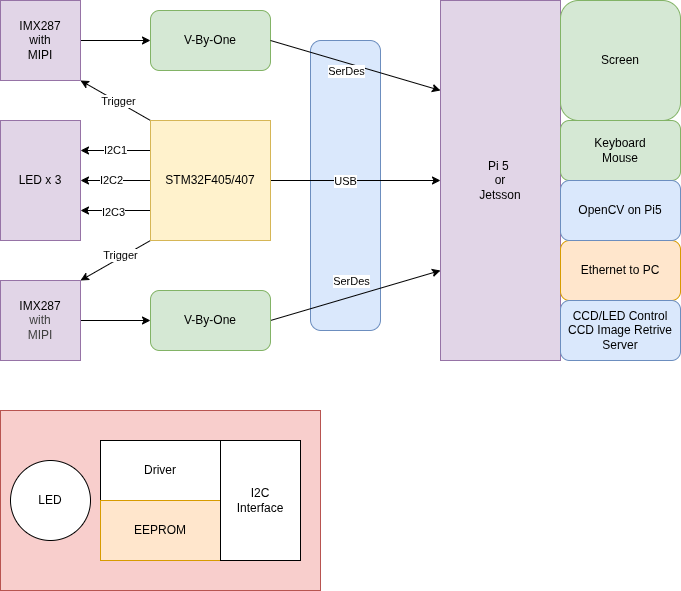
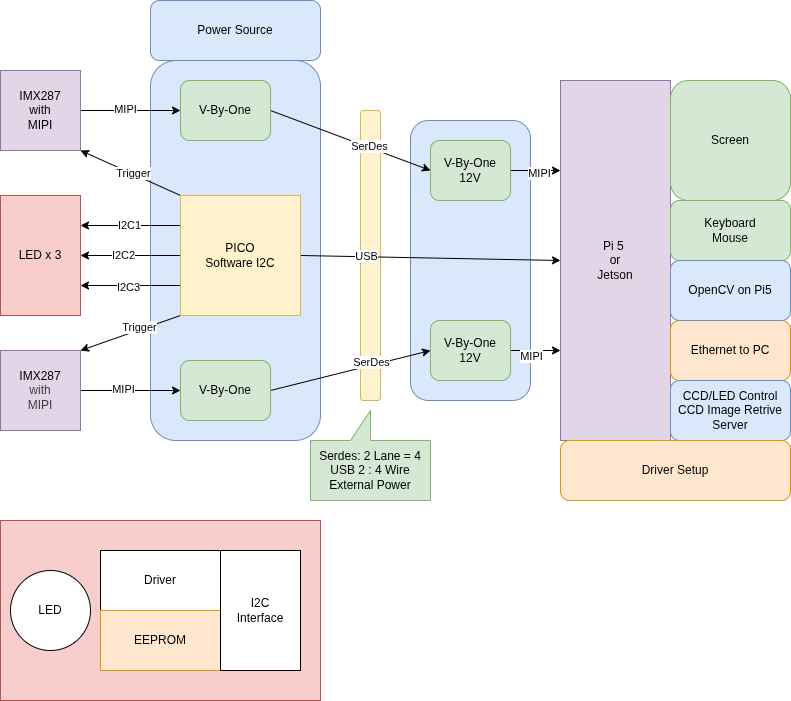
Update 2026-07-21A

diff --git a/docs/Y2026/Y2026-07.md b/docs/Y2026/Y2026-07.md
@@ -1,5 +1,58 @@
 # 2026-07
 
+## 2026-07-21 Tuesday 🌐 🎬 💾 📚 📑 🔬
+
+### MIPI FPC Pin Count & Specifications Reference Table
+
+| Pin Count | Typical Pitch | Max Supported Lanes | Primary Applications (CSI / DSI) | Core Features & Extra Signals Breakdown |
+| :--- | :--- | :--- | :--- | :--- |
+| **15-Pin** | 1.0 mm | 2-Lane | Legacy Cameras / Displays (CSI/DSI) | Legacy standard for Raspberry Pi 1 to 4. Contains basic lines: single 3.3V power rail, 1x I2C bus, and 1-2 control IOs. |
+| **22-Pin** | 0.5 mm | 4-Lane | High-Density Cameras / Displays (CSI/DSI) | Standard for Raspberry Pi 5, Pi Zero, and Jetson carrier boards. Adds 2 more data lanes and extra GND pins for crosstalk shielding. |
+| **24-Pin** | 0.5 mm / 0.3 mm | 4-Lane | Industrial Cameras / IoT EVBs (CSI) | Widely used in Google Coral Dev Boards and industrial vision systems. Includes full 4-Lane MIPI with hardware trigger and flash sync pins. |
+| **30-Pin** | 0.5 mm | 4-Lane | Medical & Industrial Modules (CSI/DSI) | Designed for sensors requiring multiple clean analog power rails (e.g., 2.8V AV_DD, 1.2V Core, 1.8V IO_DD) to reduce noise. |
+| **31-Pin** | 0.3 mm | 4-Lane | Rockchip EVBs / Custom Modules (CSI) | High-density interface commonly seen on Rockchip platforms (e.g., Radxa ROCK series) to cram full I/O features into ultra-tight spaces. |
+| **39 / 40-Pin**| 0.5 mm | 4-Lane | Small-to-Medium Touchscreens (DSI) | **The absolute industry standard for embedded displays.** Dedicates 10 pins to MIPI, while the rest integrate Touch Panel (TP) I2C and high-voltage Backlight (LED+/LED-). |
+| **50 / 60-Pin**| 0.5 mm | 8-Lane (Dual-MIPI) | 2K/4K Displays / VR Headsets (DSI) | Uses Dual-Channel MIPI DSI to achieve massive bandwidth for high-resolution panels. Packs multiple backlight strings and touch interfaces. |
+| **Custom B2B** | 0.35 mm | 2-Lane / 4-Lane | Smartphones / Tablets Internal Layouts | Utilizes Board-to-Board micro-connectors rather than insertion-style FPCs. Pin counts (e.g., 34, 42, 54) are entirely customized by OEMs to fit the motherboard routing. |
+
+---
+
+#### 🛠 Hardware Implementation Checklist
+
+*   **Impedance Control:** Ensure all MIPI High-Speed differential pairs (Clock and Data) are routed with a target differential impedance of **100 $\Omega$ (±10%)** across the FPC and PCB.
+*   **Intra-pair Skew:** Keep the length trace matching between the Positive (P) and Negative (N) signals within **0.15 mm (approx. 5-10 mils)** to prevent phase shifts.
+*   **IO Voltage Warning:** Verify control bus voltages (I2C/CCI). Legacy 15-pin setups occasionally mixed 3.3V, but modern 22-pin to 40-pin high-density systems almost exclusively use **1.8V** signaling. Connecting a 3.3V master to a 1.8V sensor will fry the module.
+
+---
+
+### PICO SDK V2.3.0 Update
+
+🎬[This 'Minor' SDK Update Unlocks Hidden RAM on Your RP2350](https://www.youtube.com/watch?v=F1kM4Ts2qJ8)
+
+- 🔧 XIP Cache → Extra SRAM — Claw back 8KB by shrinking the XIP cache. Game-changer for memory-constrained RP2350 builds.
+- 💾 PS RAM goes standard — Proper malloc/free for PS RAM with graceful fallback to main heap. No more hacking board files.
+- 😴 Low Power library — Sleep and Hibernate modes that actually wake up. GPIO or internal clock triggers, production-ready for RP2040 & RP2350.
+- 📋 11 new boards — Including DebugPro, the Raspberry Pi 500 RP2040 keyboard, and Waveshare RP2350 Pi Zero
+- 🔄 USB Reset library — Cleaner, dedicated separation from the main stack.
+- 🔵 BT stack 1.8.2 — Bluetooth upgrade. New project incoming? 👀
+- 🔒 Security fix — Embed TLS patched. Don't skip this one.
+
+---
+
+### VEYE Camera IMX287 and V-By-One 
+
+📑[V-by-One-HS KIT appnotes 4 rpi](https://wiki.veye.cc/index.php?title=V-by-One-HS_KIT_appnotes_4_rpi)
+
+📑[Mv series camera appnotes 4 rpi](https://wiki.veye.cc/index.php?title=Mv_series_camera_appnotes_4_rpi)
+
+![](../images/2026/20260721_121004.jpg)
+
+Camera -> V-By-One (30Pin include 5V)
+
+V-By-One -> Pi (15Pin for Pi 4, 22Pin for Pi 5)
+
+---
+
 ## 2026-07-20 Monday 🌐 🎬 💾 📚 📑 🔬
 
 ### The Black Swan

diff --git a/docs/Python_Resources.md b/docs/Python_Resources.md
@@ -388,6 +388,101 @@ sys.path.append(os.path.abspath(parent_dir))
         writer.write(fp)
 ```
 
+### Python Functional Pointer 
+
+```py
+PAYMENT_HANDLERS = {}
+
+def register(payment_type):
+    def decorator(func):
+        PAYMENT_HANDLERS[payment_type] = func
+        return func
+    return decorator
+
+@register("credit_card")
+def charge_credit_card(amount):
+    return f"Charged ${amount} to credit card"
+
+@register("paypal")
+def charge_paypal(amount):
+    return f"Charged ${amount} via PayPal"
+
+@register("crypto")
+def charge_crypto(amount):
+    return f"Charged ${amount} in crypto"
+
+def process_payment(payment_type, amount):
+    handler = PAYMENT_HANDLERS.get(payment_type)
+    if handler is None:
+        raise ValueError(f"Unknown payment type: {payment_type!r}")
+    return handler(amount)
+```
+
+```py
+class Registry:
+    """A reusable name-to-object registry."""
+
+    def __init__(self, name):
+        self.name = name
+        self._registry = {}
+
+    def register(self, key):
+        def decorator(obj):
+            if key in self._registry:
+                raise KeyError(
+                    f"{key!r} already registered in {self.name!r}"
+                )
+            self._registry[key] = obj
+            return obj
+        return decorator
+
+    def get(self, key):
+        if key not in self._registry:
+            raise KeyError(
+                f"{key!r} not found in {self.name!r}. "
+                f"Available: {list(self._registry)}"
+            )
+        return self._registry[key]
+
+    def __contains__(self, key):
+        return key in self._registry
+
+    def keys(self):
+        return self._registry.keys()
+```
+
+```py
+
+transforms = Registry("transforms")
+
+@transforms.register("lowercase")
+def to_lower(text):
+    return text.lower()
+
+@transforms.register("strip")
+def strip_whitespace(text):
+    return text.strip()
+
+@transforms.register("remove_digits")
+def remove_digits(text):
+    return "".join(c for c in text if not c.isdigit())
+
+# The pipeline is now just data. It could come from a YAML file,
+# a CLI argument, or a database row.
+pipeline = ["strip", "lowercase", "remove_digits"]
+text = "  Order #4521 CONFIRMED  "
+
+for step in pipeline:
+    text = transforms.get(step)(text)
+
+print(repr(text))
+
+Output:
+'order # confirmed'
+```
+
+---
+
 ## OpenCV
 
 ### Python Precision Delay

diff --git a/docs/pins.md b/docs/pins.md
@@ -22,9 +22,19 @@
 
 [Debug Probe](https://www.raspberrypi.com/documentation/microcontrollers/debug-probe.html)
 
-## PyBoard STM32F405
+## STM32 
+
+### PyBoard STM32F405
 
 ![PyBoard](./images/2025/pybv11-pinout.jpg)
+
+### STM32F405 I2C
+
+    I2C Pin Mapping Overview
+    Each I2C port can be routed to multiple alternative GPIO pin packs to suit your board layout: [1]
+    I2C1: SCL on PB6 (or PB8), SDA on PB7 (or PB9)
+    I2C2: SCL on PB10, SDA on PB11
+    I2C3: SCL on PA8 (or PH7), SDA on PC9 (or PH8) [1, 2]
 
 ## FT2232
 
